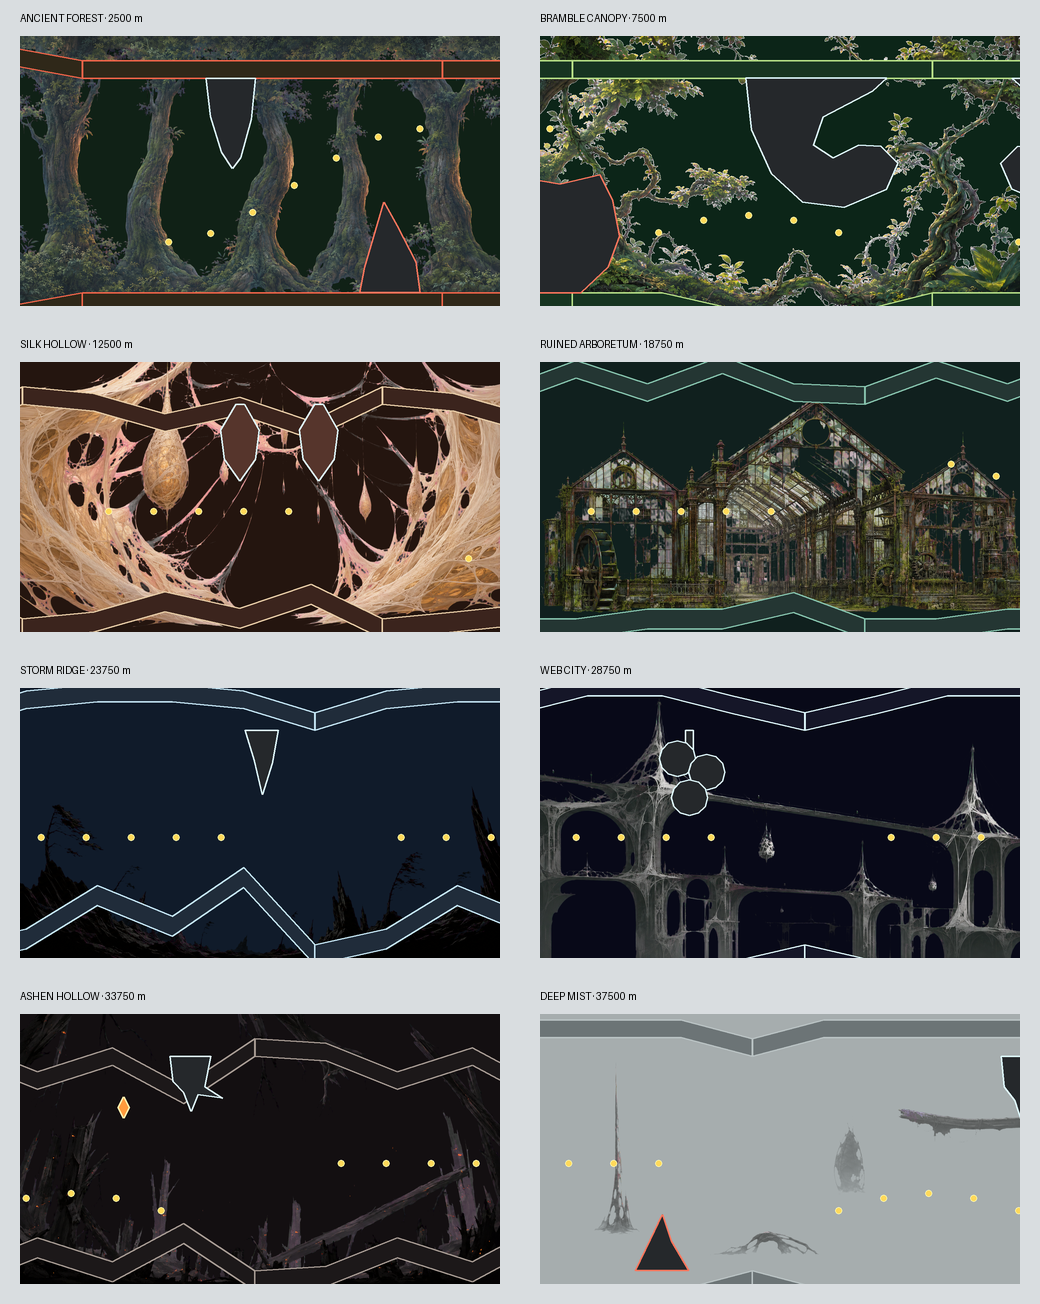
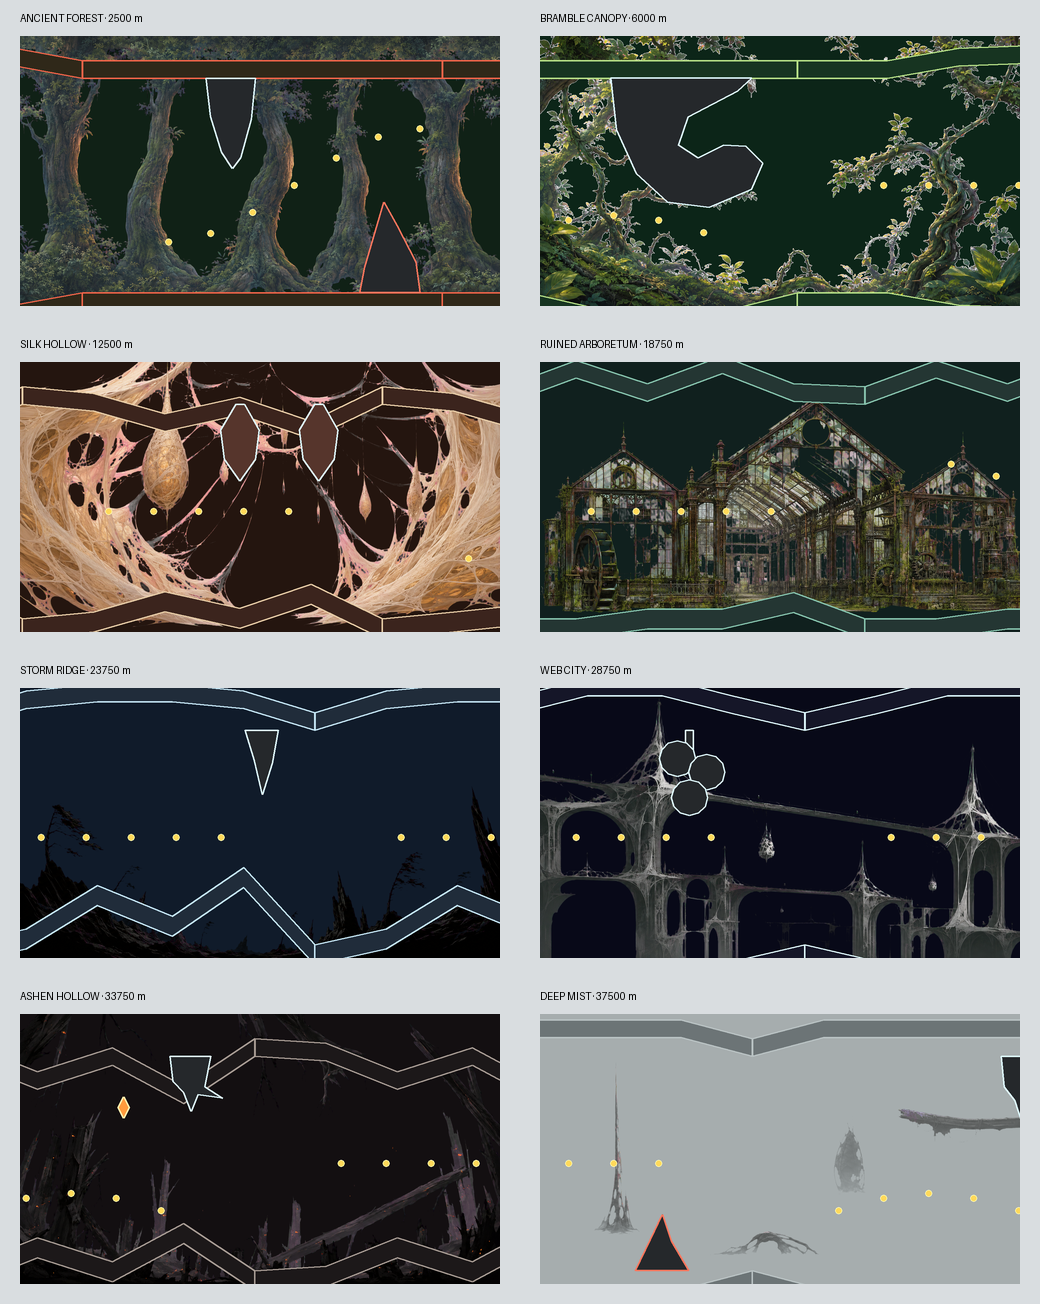
Capture Bramble signature patterns in zone audit

diff --git a/assets/source/zone-art/README.md b/assets/source/zone-art/README.md
@@ -35,7 +35,7 @@ collision data. Mixed assets list the independently modelled pieces.
 
 | Asset | Chroma/keyed source → runtime | Why this runtime size | Anchor rule | 25% silhouette result; possible confusion |
 | --- | --- | --- | --- | --- |
-| `silk-hollow-backdrop.png` | 1672×941 → 1280×720 | Exact reference viewport; avoids runtime resampling of the parallax frame. | **NOT** — presentation only. | **PASS:** concave membranes, radial ribs, hanging sacs. Nearest whole-zone overlap is Bramble Canopy (IoU 0.492), but the void topology is webbed rather than braided. |
+| `silk-hollow-backdrop.png` | 1672×941 → 1280×720 | Exact reference viewport; avoids runtime resampling of the parallax frame. | **NOT** — presentation only. | **PASS:** concave membranes, radial ribs, hanging sacs. Nearest whole-zone overlap is Ancient Forest (IoU 0.488), but the void topology is webbed rather than trunked. |
 | `silk-hollow-cocoon-cluster.png` | 1254×1254 → 512×512 | Square rotation-safe canvas for 110–240 px suspended hazards and mipmaps. | **ANCHORABLE** only when ceiling-grown; floor needles use separate code art and are **NOT**. | **PASS:** pear sacs plus spindle. Could be mistaken for Web City egg sacs in isolation; City is separated by long spans at zone scale. |
 | `ruined-arboretum-backdrop.png` | 1672×941 → 1280×720 | Exact viewport for gables and rectangular greenhouse bays. | **NOT** — presentation only. | **PASS:** rectilinear gables, window grids, circles. Nearest whole-zone overlap is Ancient Forest (0.462); no organic trunk rhythm remains. |
 | `ruined-arboretum-pane.png` | 1254×1254 → 512×512 | Square phase-safe canvas leaves room for the rest arc while the shard swings. | Composite: round pivot **ANCHORABLE**; glass edge **NOT** and lethal. | **PASS:** socket + articulated shard + arc. No other zone has this mechanical punctuation. |
@@ -82,12 +82,12 @@ all pairwise zone-silhouette overlaps are in
 
 The contact sheet is generated from the actual seeded CourseStream geometry at
 tick 137 plus each foreground backdrop, then reduced to pure black at 320×180
-(25% of 1280×720). The highest pair overlap is 0.550, between the two pre-existing
-forest zones. Every owned zone is below 0.493 against every other zone.
+(25% of 1280×720). The highest pair overlap is 0.497, between the two pre-existing
+forest zones. Every owned zone is below 0.488 against every other zone.
 
 | Zone | Result | Closest possible confusion |
 | --- | --- | --- |
-| Silk Hollow | **PASS** | Bramble Canopy, 0.492; suspended cavities replace braided rails. |
+| Silk Hollow | **PASS** | Ancient Forest, 0.488; suspended cavities replace trunks. |
 | Ruined Arboretum | **PASS** | Ancient Forest, 0.462; straight gables/grids remain unmistakable. |
 | Storm Ridge | **PASS** | Ashen Hollow, 0.396; open sky versus fractured enclosure. |
 | Web City | **PASS** | Silk Hollow, 0.303; horizontal civic spans versus hanging sacs. |

diff --git a/docs/visual/zones/README.md b/docs/visual/zones/README.md
@@ -8,6 +8,10 @@ polygons at tick 137; `tools/zone_art_audit.py` combines those polygons with the
 runtime foreground art, writes the full-colour world captures, reduces the same
 structure to pure black, and shrinks it to 25%.
 
+The fixed 6000 m Bramble capture deliberately includes its hook-vine and
+leaf-shutter signature families; `--bramble-metres=<value>` supports comparison
+probes without changing the recorded sample.
+
 Run:
 
 ```bash
@@ -35,8 +39,8 @@ and active hazards from the same captured tick.
 
 ## Result
 
-The highest pair overlap is 0.550, between the two pre-existing forest zones.
-Every owned zone remains below 0.493 against every other zone. Per-zone nearest
+The highest pair overlap is 0.497, between the two pre-existing forest zones.
+Every owned zone remains below 0.488 against every other zone. Per-zone nearest
 confusion, every asset's exact source/runtime dimensions and rationale, its
 **ANCHORABLE**/**NOT** state, hashes, and source/runtime/25% fringe counts are
 recorded in `assets/source/zone-art/README.md` and `zone-art-audit.json`.
